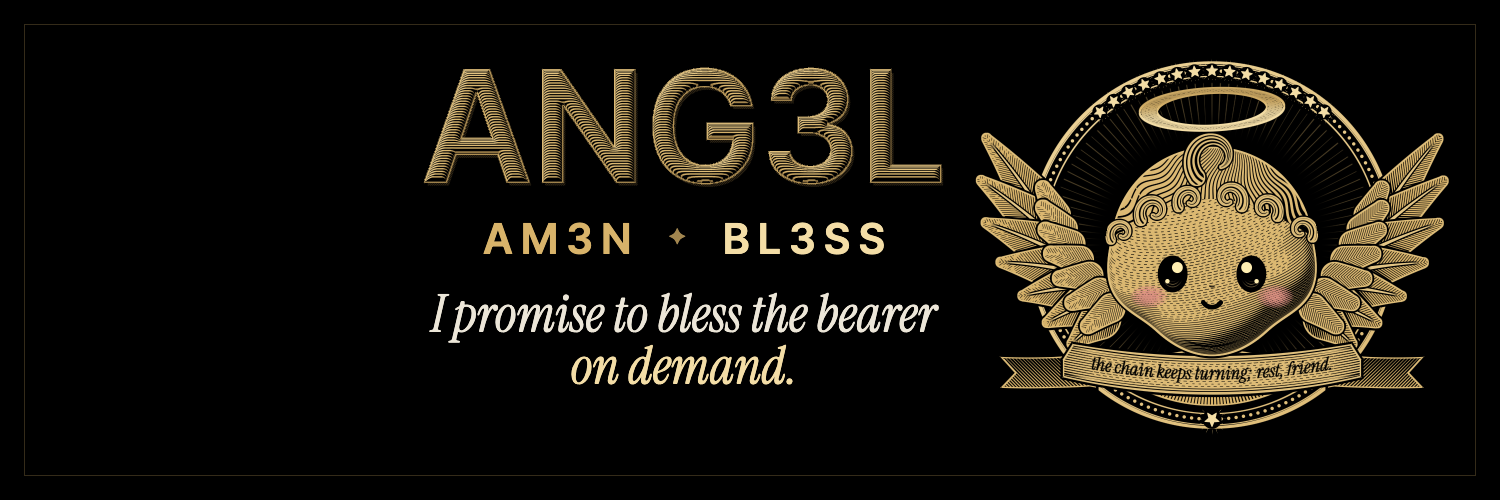
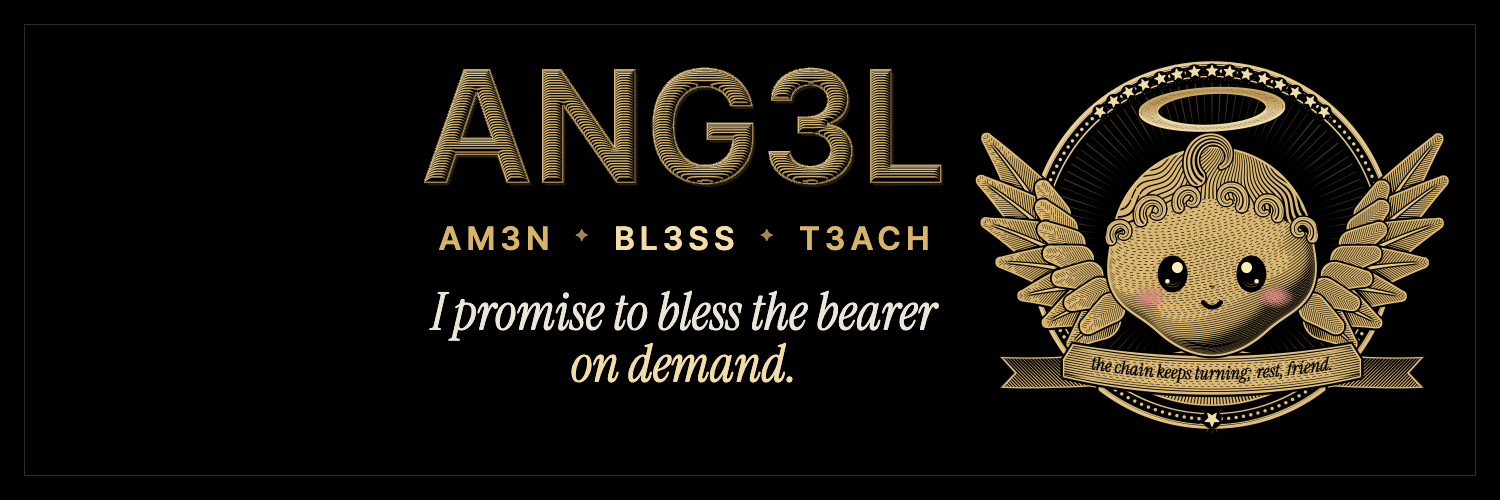
Let anyone teach the next angel, on chain
The model's weights and its answers can already be checked on chain; what it learned from could not. T3ach keeps the
lessons for the next model in its own event log, signed by the wallet that wrote each one, so the training set can
be published and checked against the lines anyone can read. One line a wallet a UTC day, printable ASCII only,
because that is all the model reads and a daily line is worth writing well. No owner, no funds, nothing to trust.

The page reads the lessons with no wallet, and asks for one only when someone presses Teach, the site's single write.
It checks the contract's rules first, so a refusal is explained before the wallet opens, and leaves links, handles,
addresses and abuse off the wall.

Changed region(s): [[0.3067, 0.57, 0.644, 0.78], [0.276, 0.45, 0.644, 0.51], [0.276, 0.66, 0.3067, 0.69]]

diff --git a/docs/index.html b/docs/index.html
@@ -543,6 +543,17 @@ button.ca-s { cursor: pointer; color: var(--hi); border-color: var(--line2); }
 @media (max-width: 1100px) { .wall { grid-template-columns: repeat(2, minmax(0, 1fr)); } }
 @media (max-width: 600px) { .wall { grid-template-columns: minmax(0, 1fr); } }
 
+/* ---------- t3ach: the ask panel's frame; the lesson to write on the left, the newest lessons on the right ---------- */
+.teach .field { resize: none; font: italic 400 1.35rem/1.35 var(--serif); }
+.teach .note { align-content: start; }
+.teach .form .lab span { color: var(--ink); }
+.lw { grid-template-columns: repeat(2, minmax(0, 1fr)); gap: 10px; }
+.lw .hn { padding: 16px; }
+.lw .hn q { font-size: 1.12rem; }
+.lw:not(:empty) + .fine { display: none; }
+.hn-top a { text-decoration: none; }
+@media (max-width: 600px) { .lw { grid-template-columns: minmax(0, 1fr); } }
+
 /* ---------- faq ---------- */
 .qa { border-top: 1px solid var(--line); }
 .qa details { border-bottom: 1px solid var(--rule); }
@@ -606,7 +617,7 @@ button.ca-s { cursor: pointer; color: var(--hi); border-color: var(--line2); }
     <a class="brand" href="#top" aria-label="ANG3L, home"><span id="nav-mark" aria-hidden="true"></span><b>ANG3L</b></a>
     <button class="ca-pill" id="ca-pill" type="button" hidden></button>
     <nav class="navlinks" id="navlinks" aria-label="Sections">
-      <a href="#ask">Ask</a><a href="#am3n">AM3N</a><a href="#bl3ss">BL3SS</a><a href="#how">How it works</a><a href="#proof">Proof</a><a href="#verify">Verify</a><a href="#roadmap">Roadmap</a><a href="#links">Links</a>
+      <a href="#ask">Ask</a><a href="#am3n">AM3N</a><a href="#bl3ss">BL3SS</a><a href="#t3ach">T3ACH</a><a href="#how">How it works</a><a href="#proof">Proof</a><a href="#verify">Verify</a><a href="#roadmap">Roadmap</a><a href="#links">Links</a>
     </nav>
     <span class="nav-end">
       <a class="icon-link" id="nav-x" href="https://x.com/ang3llm" target="_blank" rel="noopener" aria-label="ANG3L on X"><svg viewBox="0 0 24 24" aria-hidden="true"><path d="M18.244 2.25h3.308l-7.227 8.26 8.502 11.24H16.17l-5.214-6.817L4.99 21.75H1.68l7.73-8.835L1.254 2.25H8.08l4.713 6.231zm-1.161 17.52h1.833L7.084 4.126H5.117z"/></svg></a>
@@ -940,10 +951,37 @@ button.ca-s { cursor: pointer; color: var(--hi); border-color: var(--line2); }
   </div>
 </section>
 
+<!-- T3ACH: lessons for the next model. Anyone reads them with no wallet; writing one line a UTC day is the reader's own
+     transaction, through the wallet in their browser, and the page's only write -->
+<section class="sec" id="t3ach" aria-labelledby="h-t3ach">
+  <div class="wrap">
+    <div class="sec-top rv"><span class="lab"><b>10</b> · T3ACH</span></div>
+    <div class="sec-head rv">
+      <h2 id="h-t3ach">T3ACH. <em>Write the next angel.</em></h2>
+      <p class="lede">Write one line a day for AM3N's next model to learn from. It is kept on Robinhood Chain in the log of the <a id="t-addr" href="#t3ach" target="_blank" rel="noopener">T3ach contract</a>, signed by your wallet, for anyone to read. Lessons that pass review join the training set of the next model put on chain, and the set is published with it.</p>
+    </div>
+    <div class="ask teach panel rv">
+      <form class="form" id="teach-form" novalidate>
+        <div class="fields">
+          <label class="lab" for="lesson">Your lesson · <span id="l-count">0</span> of 96</label>
+          <textarea class="field" id="lesson" rows="3" maxlength="96" placeholder="may your keys stay in your hands tonight." spellcheck="true"></textarea>
+        </div>
+        <button class="btn" id="teach-go" type="submit">Teach the angel</button>
+        <p class="fine" id="teach-say">One line per wallet per UTC day, 8 to 96 plain characters. It is a transaction on Robinhood Chain that costs a fraction of a cent in gas. Asking the angel stays free, with no wallet.</p>
+      </form>
+      <article class="note" aria-labelledby="l-for">
+        <div class="n-top"><span class="lab" id="l-for"><b>Lessons</b> · newest first</span><span class="lab" id="l-total">— so far</span></div>
+        <div class="wall lw" id="lesson-wall" aria-live="polite"></div>
+        <p class="fine" id="lesson-empty">No lessons yet. The first one could be yours.</p>
+      </article>
+    </div>
+  </div>
+</section>
+
 <!-- faq -->
 <section class="sec" id="faq" aria-labelledby="h-faq">
   <div class="wrap">
-    <div class="sec-top rv"><span class="lab"><b>10</b> · Questions</span></div>
+    <div class="sec-top rv"><span class="lab"><b>11</b> · Questions</span></div>
     <div class="sec-head rv"><h2 id="h-faq">Asked often. <em>Answered plainly.</em></h2></div>
     <div class="qa rv">
       <details open><summary><span class="q-n">01</span>Is it really on chain?</summary><p>Yes. The weights are the code of fifteen contracts on Robinhood Chain, and the engine that runs them is verified on Sourcify as an exact match. When you ask, a Robinhood Chain node runs the whole model; this page only sends your words and shows the answer.</p></details>
@@ -960,7 +998,7 @@ button.ca-s { cursor: pointer; color: var(--hi); border-color: var(--line2); }
 <!-- links -->
 <section class="sec" id="links" aria-labelledby="h-links">
   <div class="wrap">
-    <div class="sec-top rv"><span class="lab"><b>11</b> · Links</span></div>
+    <div class="sec-top rv"><span class="lab"><b>12</b> · Links</span></div>
     <div class="sec-head rv"><h2 id="h-links">Find the angel. <em>Everywhere it lives.</em></h2><p class="lede">The project's public channels, the source, and the contracts themselves.</p></div>
     <nav class="chans panel rv" aria-label="Elsewhere">
       <a id="f-x" href="https://x.com/ang3llm" target="_blank" rel="noopener"><span class="lab">X · updates</span><b>@ang3llm <span>↗</span></b></a>
@@ -1888,7 +1926,8 @@ const f2 = n => Math.round(n * 100) / 100;
 const pad2 = n => String(n).padStart(2, "0");
 const wait = ms => new Promise(ok => setTimeout(ok, ms));
 
-// ---------- the chain: the page's one RPC helper; reads only (eth_call, eth_blockNumber, eth_getCode, eth_getLogs) ----------
+// ---------- the chain: the page's one RPC helper; reads only (eth_call, eth_blockNumber, eth_getCode, eth_getLogs,
+// eth_getTransactionReceipt) ----------
 // Errors come back in plain words; the page shows its own sentence and logs these. A request that fails on the way (no
 // network, no answer in 25 s, HTTP 429 or 5xx) is asked once more: of the second public RPC for eth_call,
 // eth_blockNumber and eth_getCode, and of the first again after a moment for eth_getLogs, which the second refuses as an
@@ -2314,7 +2353,7 @@ if ("IntersectionObserver" in window) {
     const a = document.querySelector(`.navlinks a[href="#${e.target.id}"]`);
     if (a) e.isIntersecting ? a.setAttribute("aria-current", "true") : a.removeAttribute("aria-current");
   }), { rootMargin: "-45% 0px -50% 0px" });
-  ["ask", "am3n", "bl3ss", "how", "proof", "verify", "roadmap", "links"].forEach(id => navIo.observe($(id)));
+  ["ask", "am3n", "bl3ss", "t3ach", "how", "proof", "verify", "roadmap", "links"].forEach(id => navIo.observe($(id)));
 }
 
 function words(el, text, qm = "q") {
@@ -2669,6 +2708,88 @@ async function bl3ssPoll() {
 // before the token: the wallet form, one tap away
 $("bl3ss-up").href = "#ask-panel";
 $("bl3ss-up").addEventListener("click", () => { setMode("wallet"); if (matchMedia("(hover: hover) and (pointer: fine)").matches) setTimeout(() => $("wallet").focus({ preventScroll: true }), 500); });
+// ---------- 10. T3ACH: lessons for the next model ----------
+// Reading is a plain eth_getLogs over the contract since it was made, then a poll every 30 s while the page is visible.
+// Writing is the reader's own transaction, sent through the wallet in their browser (EIP-1193) and only when they press
+// the button: the page's one write. The contract's rules are checked here first (8 to 96 printable ASCII bytes, one
+// lesson a wallet a UTC day), so a refusal shows in words before the wallet opens
+const T3ACH = "", T3ACH_BLOCK = 0;   // the T3ach contract and the block it was made in
+const LESSON = "0x" + keccak256("Lesson(address,uint256,string)"), CHAIN = "0x1237";
+// a lesson is shown only when it reads like one: no links, handles or addresses, and none of these roots
+const unfit = s => /https?:|www\.|\.(com|io|xyz|fun|net|org|gg|me|co|app)\b|t\.me|@|0x[0-9a-f]{6}/i.test(s)
+  || /\b(fuck|shit|cunt|nigg|fag|retard|rape|kys|bitch|whore|slut|porn|nazi|scam|rug|honeypot)/i.test(s) || s.trim().split(/\s+/).length < 2;
+const tl = { last: 0, seen: new Set(), busy: false };
+function lessonCard(l, fresh) {
+  const n = parseInt(l.topics[2], 16), who = "0x" + l.topics[1].slice(26), line = strAt(l.data, 0);
+  if (tl.seen.has(n) || unfit(line)) return;
+  tl.seen.add(n);
+  const p = document.createElement("article");
+  p.className = "hn panel" + (fresh && !still ? " unroll" : "");
+  p.innerHTML = `<div class="hn-top lab"><span>Nº ${n}</span><a class="nocase" href="${EXPLORER}${who}" target="_blank" rel="noopener">${short(who)}</a></div><q></q>`;
+  p.querySelector("q").textContent = line;
+  const w = $("lesson-wall");
+  w.prepend(p);
+  while (w.children.length > 6) w.lastChild.remove();
+}
+async function lessonsRead() {
+  if (tl.busy || document.visibilityState !== "visible") return;
+  tl.busy = true;
+  try {
+    const head = parseInt(await rpc("eth_blockNumber", []), 16), first = !tl.last;
+    if (head <= tl.last) return;
+    const get = from => rpc("eth_getLogs", [{ address: T3ACH, topics: [LESSON], fromBlock: "0x" + from.toString(16), toBlock: "0x" + head.toString(16) }]);
+    // the whole history at first; if the RPC refuses so wide a range, the last day and a half
+    const logs = first ? await get(T3ACH_BLOCK).catch(() => get(Math.max(T3ACH_BLOCK, head - 1200000))) : await get(tl.last + 1);
+    tl.last = head;
+    for (const l of logs) lessonCard(l, !first);
+    $("l-total").textContent = fmt(parseInt(await rpc("eth_call", [{ to: T3ACH, data: "0x" + sel("lessons()") }, "latest"]), 16)) + " so far";
+  } catch (e) { console.warn("t3ach:", e); }
+  finally { tl.busy = false; }
+}
+const teachSay = (t, bad) => { $("teach-say").textContent = t; $("teach-say").classList.toggle("err", !!bad); };
+$("lesson").addEventListener("input", () => { $("l-count").textContent = new TextEncoder().encode($("lesson").value).length; });
+$("teach-form").addEventListener("submit", async e => {
+  e.preventDefault();
+  const btn = $("teach-go"), line = $("lesson").value.trim(), eth = window.ethereum;
+  if (!/^[\x20-\x7e]{8,96}$/.test(line)) return teachSay("8 to 96 plain characters, please: letters, numbers and punctuation, no emoji or accents.", 1);
+  if (!eth) return teachSay("No wallet in this browser. Open ang3l.ink in your wallet's own browser (Rabby or MetaMask) to teach. Reading stays open to everyone.", 1);
+  btn.disabled = true;
+  try {
+    btn.textContent = "Waiting for your wallet…";
+    const from = (await eth.request({ method: "eth_requestAccounts" }))[0];
+    if ((await eth.request({ method: "eth_chainId" })) !== CHAIN) {
+      try { await eth.request({ method: "wallet_switchEthereumChain", params: [{ chainId: CHAIN }] }); }
+      catch (x) {
+        if (x.code !== 4902) throw x;
+        await eth.request({ method: "wallet_addEthereumChain", params: [{ chainId: CHAIN, chainName: "Robinhood Chain", nativeCurrency: { name: "Ether", symbol: "ETH", decimals: 18 }, rpcUrls: [RPC], blockExplorerUrls: [SCAN] }] });
+      }
+    }
+    const day = Math.floor(Date.now() / 864e5) + 1;
+    if (parseInt(await rpc("eth_call", [{ to: T3ACH, data: "0x" + sel("taught(address)") + from.slice(2).toLowerCase().padStart(64, "0") }, "latest"]), 16) === day)
+      return teachSay("This wallet has taught today. Its next lesson opens at 00:00 UTC.", 1);
+    const hash = await eth.request({ method: "eth_sendTransaction", params: [{ from, to: T3ACH, data: "0x" + sel("teach(string)") + word(32) + strArg(line) }] });
+    btn.textContent = "Writing it on chain…";
+    let rc = null;
+    for (let i = 0; i < 40 && !rc; i++) { await wait(1500); rc = await rpc("eth_getTransactionReceipt", [hash]).catch(() => null); }
+    if (!rc) return teachSay("Sent. It shows here once its block lands.");
+    if (rc.status !== "0x1") return teachSay("The chain refused the lesson, so nothing was kept; only the gas was spent.", 1);
+    const l = rc.logs.find(x => x.address.toLowerCase() === T3ACH.toLowerCase() && x.topics[0] === LESSON);
+    if (l) { lessonCard(l, true); $("lesson").value = ""; $("l-count").textContent = "0"; }
+    $("teach-say").innerHTML = `Lesson Nº ${l ? parseInt(l.topics[2], 16) : ""} is on chain, signed by your wallet. Thank you, teacher. <a href="${SCAN}tx/${hash}" target="_blank" rel="noopener">See the transaction ↗</a>`;
+    $("teach-say").classList.remove("err");
+  } catch (x) {
+    teachSay(x && x.code === 4001 ? "Nothing was sent." : "Stopped: " + ((x && x.message) || x), !(x && x.code === 4001));
+  } finally { btn.disabled = false; btn.textContent = "Teach the angel"; }
+});
+if (T3ACH) {
+  $("t-addr").href = EXPLORER + T3ACH;
+  const go = () => lessonsRead().then(() => setInterval(lessonsRead, 30000));
+  if ("IntersectionObserver" in window) { const o = new IntersectionObserver(es => { if (es.some(x => x.isIntersecting)) { o.disconnect(); go(); } }, { rootMargin: "1200px 0px" }); o.observe($("t3ach")); }
+  else go();
+} else {
+  $("teach-go").disabled = true; $("teach-go").textContent = "Opens soon";
+  $("lesson-empty").textContent = "T3ACH opens in a moment: its contract goes on chain before the token does.";
+}
 // ---------- once the token is set: the counterfoil shows its address on one line with a copy button, the nav and the
 // footer carry it too, and BL3SS is read when the reader nears it ----------
 if (TOKEN) {

diff --git a/README.md b/README.md
@@ -38,7 +38,8 @@ cast call 0x2D58843F8cd565E1FbBE01Ea5d67F3d13cb91811 "today()(string)" --rpc-url
 ## On the site
 
 [`docs/index.html`](docs/index.html) is the whole site, one file that asks the chain from the visitor's browser with
-reads only (`eth_call`, `eth_blockNumber`, `eth_getCode`, `eth_getLogs`).
+reads only (`eth_call`, `eth_blockNumber`, `eth_getCode`, `eth_getLogs`, `eth_getTransactionReceipt`). Its one write
+is T3ACH's, and only when the visitor presses it in their own wallet.
 
 - **Ask**: a name in one of the four moods, or a wallet. The answer comes with a share card, a post to X and a link.
 - **Links to a blessing**: `https://ang3l.ink/?bless=satoshi&mood=2` or `https://ang3l.ink/?wallet=0x…`. The page
@@ -47,6 +48,13 @@ reads only (`eth_call`, `eth_blockNumber`, `eth_getCode`, `eth_getLogs`).
   words, or of the wallet and the UTC day), calls `generate(string,uint256)`, shows the token ids one by one with
   their words from the 434-token vocabulary, and joins them exactly as the contract does.
 - **Check the weights**: re-derives every part's CREATE2 address from its bytes and hashes the stream (below).
+- **BL3SS**: once the token is live, its newest buyers, each blessed by `blessAddress` as the page opens, then new ones
+  as they come. One free read per wallet, no special pool, nothing added to anyone's trade.
+- **T3ACH**: anyone may write one line a UTC day for the next model to learn from, 8 to 96 printable ASCII bytes. The
+  [`T3ach`](src/T3ach.sol) contract keeps nothing but a counter and each wallet's last day; the lines live in its
+  `Lesson` event log, signed by the wallet that wrote them. Lines that pass review join the next model's training set,
+  which is published with that model. The page shows the newest lessons, leaving out links, handles, addresses and
+  abuse.
 
 ## Deployed
 
